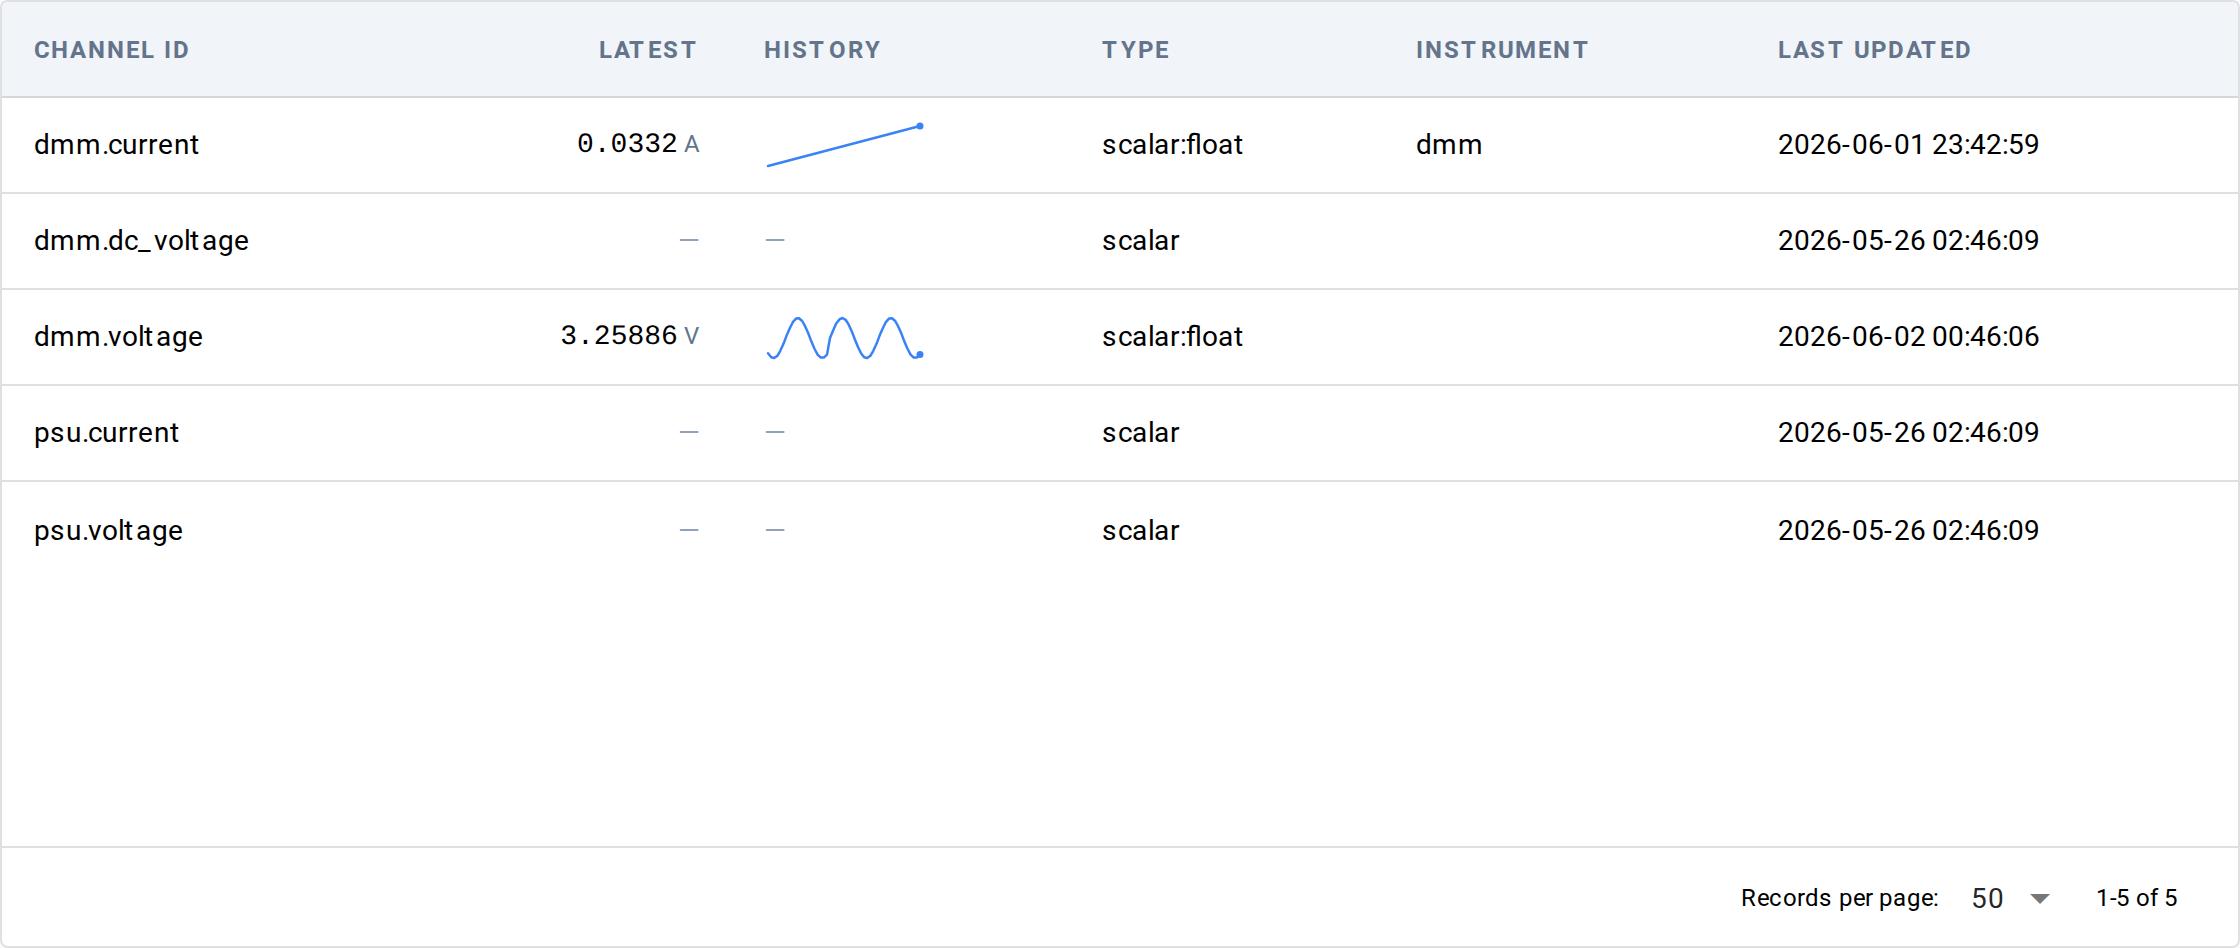
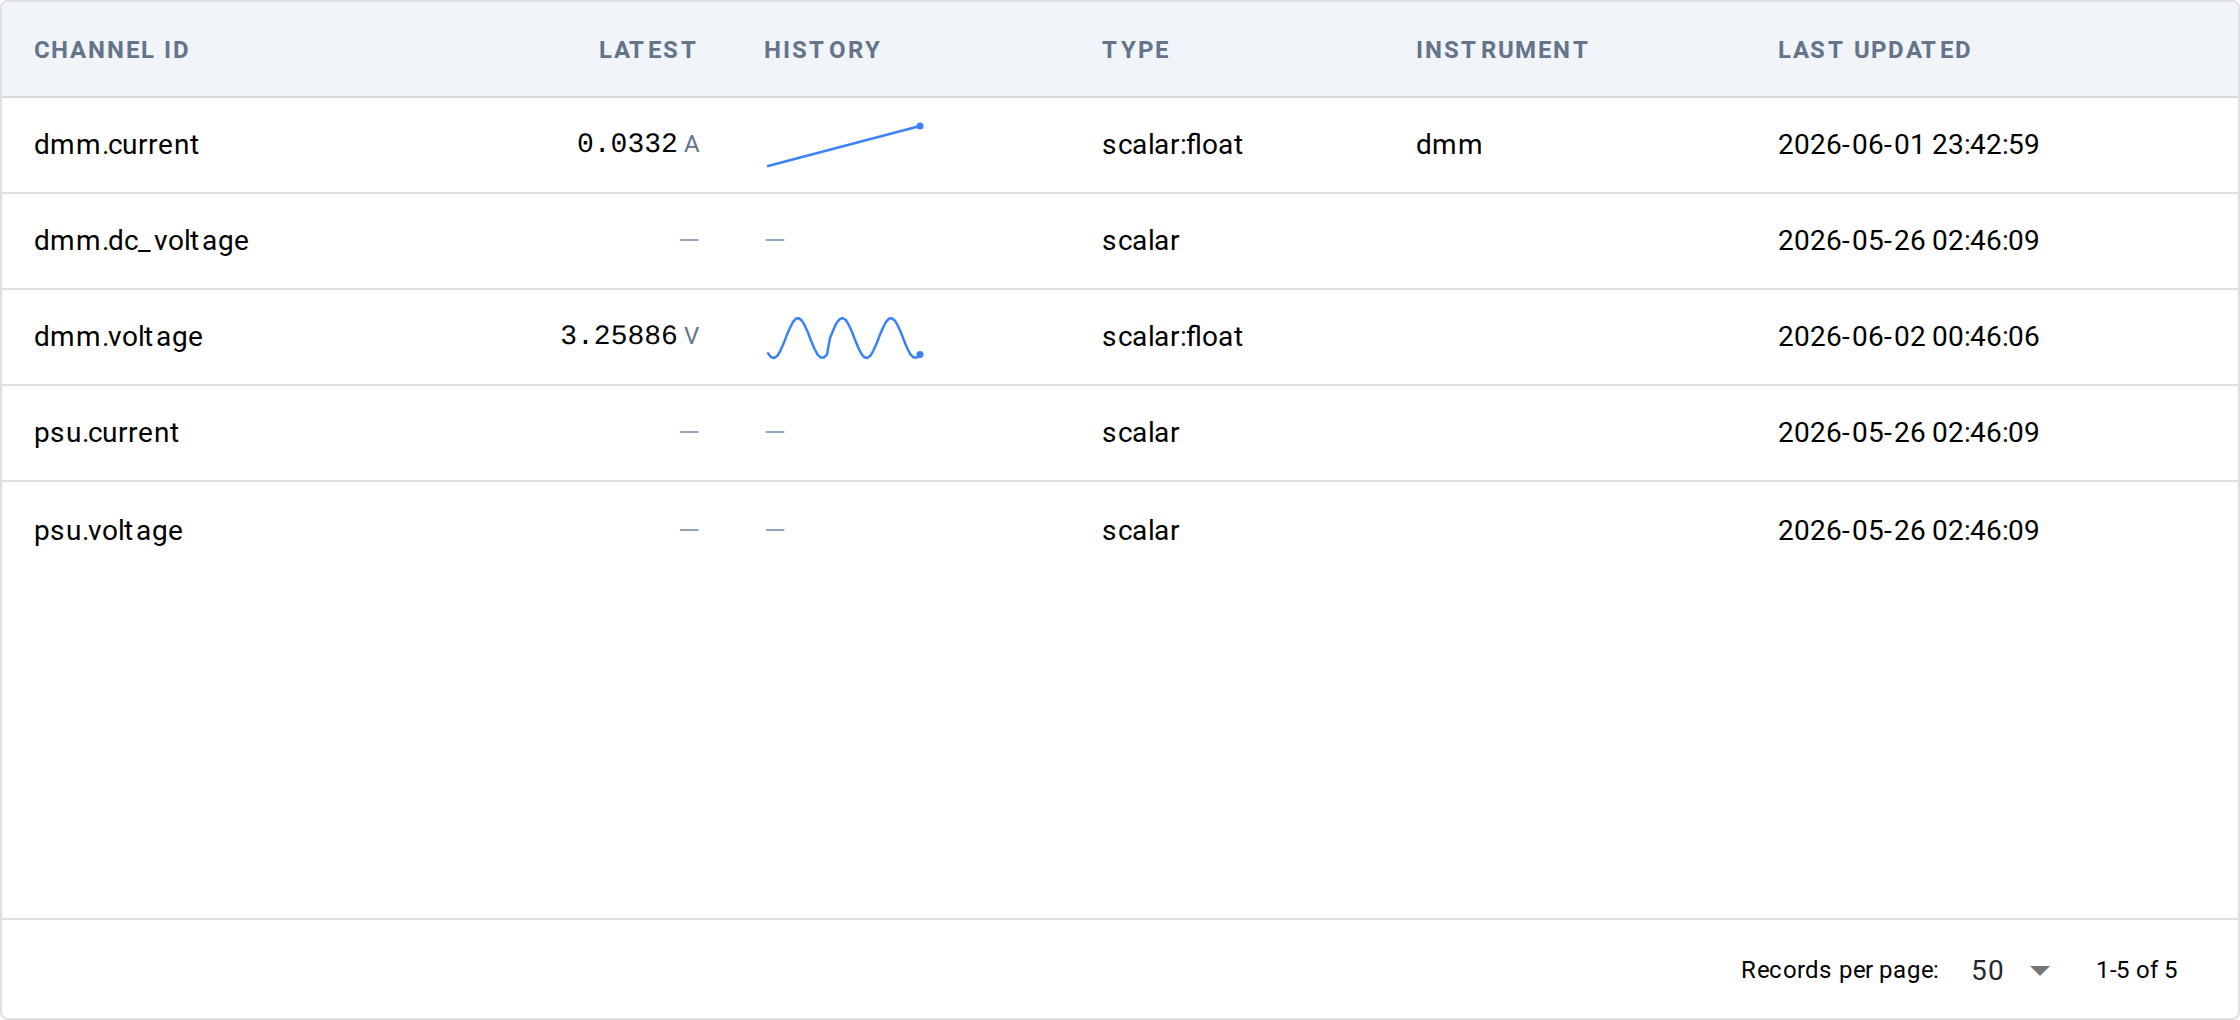
refactor(ui): cluster-3 design-review fixes (UX modifications)
First pass of v0.2.0 cluster-3 design review. Findings from the
audit of PRs #49 (/channels filter row), #50 (/launch
?test_profile= handling), and #53 (session scoping URL-only —
operator axes replace UUID filters). 5 of 10 agent findings
verified; others were false positives.

Applied:
* /launch station dropdown no longer shows ``(station_id)``
  parenthetical. Friendly name only; station_id stays as the
  hidden form value.
* /channels empty-state uses page-level ``had_data`` flag set
  True on first non-empty refresh and never reset, so a refresh
  racing a filter change can't flash "No channels recorded yet".
* /launch URL state mirroring on product / station / test_profile
  / mock dropdowns via push_url_state — matches the
  bookmarkability rule across the rest of the site.
* /channels descriptive label under page_header removed for
  consistency with /results, /events, /duts.
* Shared ``render_no_data_card`` helper added to components.py.
  Hand-rolled empty-state cards across /channels, /events,
  /files, /duts had drifted; the new helper unifies them.
  Default = slate-500 italic; ``emphasis="warning"`` = amber for
  missing-directory / lost-data states.

Verified false positives (skipped): get_runs_filter_options keys
are correct (verified at runs_query.py:341); discover_stations
returns hostname (verified at StationConfig.hostname);
session-picker absence is intentional per PR #53;
Annotated[list[str], Query()] isn't reliable in NiceGUI;
[…]

diff --git a/src/litmus/ui/shared/components.py b/src/litmus/ui/shared/components.py
@@ -244,6 +244,55 @@ def info_field(label: str, value: str) -> None:
         ui.html(value or "", sanitize=False).classes("font-semibold")
 
 
+def render_no_data_card(
+    container: Any,
+    *,
+    title: str,
+    reason: str = "",
+    icon: str | None = None,
+    emphasis: str = "default",
+) -> None:
+    """Render a standardized empty-state card.
+
+    Every list page that may have zero rows uses this so the empty
+    state reads the same everywhere: a title (italic, slate by
+    default; amber when ``emphasis="warning"``), an optional small
+    icon, and an optional one- or two-sentence ``reason`` line in
+    smaller muted text below.
+
+    Replaces the per-page hand-rolled empty-state cards (each had
+    slightly different padding, font weights, or label classes) so
+    operators see one visual idiom across /channels, /events, /files,
+    /duts, /results.
+
+    Args:
+        container: The NiceGUI container (column / card / row) the
+            card renders into. The caller is responsible for entering
+            ``with`` the container if needed; this function uses it
+            via ``with container:``.
+        title: One-line title. Italic and slate-500 by default,
+            amber-700 when ``emphasis="warning"`` (used for missing-
+            directory / lost-data states distinct from "empty").
+        reason: Optional supporting copy explaining the cause and a
+            concrete next step. Rendered as text-xs slate-400 below
+            the title. Empty string skips the line.
+        icon: Optional Quasar icon name (e.g. ``"memory"``,
+            ``"folder"``). Rendered above the title in slate-300.
+        emphasis: ``"default"`` (slate) or ``"warning"`` (amber).
+            Warning emphasis distinguishes "data may have been lost"
+            from "nothing has been recorded yet".
+    """
+    title_classes = (
+        "text-amber-700 italic font-medium" if emphasis == "warning" else ("text-slate-500 italic")
+    )
+    with container, ui.card().classes("w-full p-6 text-center"):
+        if icon:
+            ui.icon(icon).classes("text-4xl text-slate-300")
+        ui.label(title).classes(title_classes + (" mt-2" if icon else ""))
+        if reason:
+            ui.label(reason).classes("text-sm text-slate-400")
+
+
 def page_header(
     title: str,
     *,

diff --git a/src/litmus/ui/pages/channels/list.py b/src/litmus/ui/pages/channels/list.py
@@ -14,6 +14,7 @@ from litmus.ui.shared.components import (
     page_header,
     page_layout,
     push_url_state,
+    render_no_data_card,
     session_filter_banner,
     subscribe_with_refresh,
 )
@@ -63,11 +64,6 @@ def channels_page(
 
     with page_layout():
         page_header("Channels")
-        ui.label(
-            "Streaming numeric / array signals captured during test runs — "
-            "scope traces, PSU readback, sensor logs. Sparklines show the "
-            "last 50 samples; values update live."
-        ).classes("text-sm text-slate-500")
 
         # Session scoping is URL-only — no widget. Set by deep-links
         # from /results/{run_id} → /channels?session_id=...; banner
@@ -130,7 +126,15 @@ def channels_page(
         # also remember the last-rendered HTML per cell and skip
         # ``table.update()`` entirely when nothing changed — that's
         # what was making the table flash every tick.
-        state: dict[str, Any] = {"table": None, "fingerprint": ""}
+        # ``had_data`` remembers whether the page has EVER seen rows
+        # since this view was opened. The per-tick ``all_rows`` snapshot
+        # is racy when a refresh fires concurrently with a filter change;
+        # using ``has_data=bool(all_rows)`` alone would flash "No
+        # channels recorded yet" mid-toggle. ``had_data`` is set True on
+        # the first non-empty refresh and never reset for the page's
+        # lifetime, so the "filtered out" copy persists once any data
+        # has been seen.
+        state: dict[str, Any] = {"table": None, "fingerprint": "", "had_data": False}
 
         def refresh() -> None:
             try:
@@ -176,6 +180,8 @@ def channels_page(
                 _row_for_channel(cid, descriptor) for cid, descriptor in sorted(channels.items())
             ]
             state["total"] = len(channels)
+            if channels:
+                state["had_data"] = True
             _render_filtered()
 
         def _render_filtered() -> None:
@@ -214,7 +220,7 @@ def channels_page(
                     state["table"].rows.clear()
                     state["table"].update()
                     state["fingerprint"] = ""
-                _show_empty_state(empty_state, has_data=bool(all_rows))
+                _show_empty_state(empty_state, has_data=state["had_data"])
                 return
 
             empty_state.clear()
@@ -408,19 +414,23 @@ def _build_table(rows: list[dict[str, Any]], *, session_id: str = "") -> ui.tabl
 def _show_empty_state(slot: ui.column, *, has_data: bool = False) -> None:
     """Render the empty-state card. Distinguishes "no data" from "filtered out"."""
     slot.clear()
-    with slot, ui.card().classes("w-full"), ui.card_section():
-        if has_data:
-            ui.label("No channels match the current filters.").classes("text-slate-500 italic")
-            ui.label("Clear the filters above to see all channels.").classes(
-                "text-xs text-slate-400"
-            )
-            return
-        ui.label("No channels recorded yet.").classes("text-slate-500 italic")
-        ui.label(
+    if has_data:
+        render_no_data_card(
+            slot,
+            title="No channels match the current filters.",
+            reason="Clear the filters above to see all channels.",
+            icon="signal_cellular_off",
+        )
+        return
+    render_no_data_card(
+        slot,
+        title="No channels recorded yet.",
+        reason=(
             "Channels appear once a test writes to ChannelStore "
-            "(e.g. ``context.observe('scope', ndarray)`` or "
-            "instrument observers)."
-        ).classes("text-xs text-slate-400")
+            "(e.g. ``context.observe('scope', ndarray)`` or instrument observers)."
+        ),
+        icon="signal_cellular_off",
+    )
 
 
 def _row_for_channel(channel_id: str, descriptor: dict[str, Any]) -> dict[str, Any]:

diff --git a/src/litmus/ui/pages/launch.py b/src/litmus/ui/pages/launch.py
@@ -6,6 +6,7 @@ from nicegui import ui
 
 from litmus.api.models import LaunchRequest
 from litmus.api.runner import get_runner
+from litmus.ui.shared.components import push_url_state
 from litmus.ui.shared.layout import create_layout
 from litmus.ui.shared.services import (
     discover_products,
@@ -58,16 +59,20 @@ def launch_page(product: str = "", station: str = "", test_profile: str = "", mo
         """Update station dropdown based on selected product."""
         nonlocal station_options
         compatible: list | None = None
+        # Display label rule: friendly name only (operator-facing). The
+        # internal station_id stays as the form value so the backend
+        # can identify the target station; it is NOT shown in the
+        # dropdown text per the "no station_id in operator UI" rule.
         if form["product_id"]:
             compatible = get_compatible_stations_for_product(form["product_id"])
             if compatible:
-                station_options = {s["id"]: f"{s['name']} ({s['id']})" for s in compatible}
+                station_options = {s["id"]: s["name"] or s["id"] for s in compatible}
             else:
                 # No compatible stations - show all with warning
-                station_options = {s.id: f"{s.name or s.id} ({s.id})" for s in all_stations}
+                station_options = {s.id: s.name or s.id for s in all_stations}
         else:
             # No product selected - show all stations
-            station_options = {s.id: f"{s.name or s.id} ({s.id})" for s in all_stations}
+            station_options = {s.id: s.name or s.id for s in all_stations}
 
         if station_select:
             station_select.options = station_options
@@ -88,6 +93,25 @@ def launch_page(product: str = "", station: str = "", test_profile: str = "", mo
 
     # Initialize station options
     update_station_options()
+
+    def _mirror_to_url() -> None:
+        """Mirror the current form's URL-shareable fields back to the URL.
+
+        Lets an operator open `/launch?test_profile=smoke`, change the
+        dropdown, and share the resulting URL — same bookmarkability
+        rule the filter pages follow. Form-only fields (DUT serial,
+        operator name) are intentionally NOT mirrored: they belong to
+        the run instance, not the launch configuration.
+        """
+        push_url_state(
+            "/launch",
+            {
+                "product": form["product_id"],
+                "station": form["station_id"],
+                "test_profile": form["test_profile"],
+                "mock": "1" if form["mock"] else "",
+            },
+        )
 
     async def submit_launch():
         if not form["dut_serial"] or not form["station_id"]:
@@ -131,7 +155,7 @@ def launch_page(product: str = "", station: str = "", test_profile: str = "", mo
                     ui.select(
                         options={p["id"]: p["name"] for p in products},
                     ).bind_value(form, "product_id").on_value_change(
-                        lambda _: update_station_options()
+                        lambda _: (update_station_options(), _mirror_to_url())
                     ).classes("w-full").props("outlined dense clearable")
 
                 # 2. DUT Serial
@@ -157,6 +181,7 @@ def launch_page(product: str = "", station: str = "", test_profile: str = "", mo
                             options=station_options,
                         )
                         .bind_value(form, "station_id")
+                        .on_value_change(lambda _: _mirror_to_url())
                         .classes("w-full")
                         .props("outlined dense")
                     )
@@ -179,13 +204,17 @@ def launch_page(product: str = "", station: str = "", test_profile: str = "", mo
                     # of silently dropping the param.
                     if test_profile and test_profile not in profile_options:
                         profile_options[test_profile] = f"{test_profile} (unknown)"
-                    ui.select(options=profile_options).bind_value(form, "test_profile").classes(
-                        "w-full"
-                    ).props("outlined dense clearable")
+                    ui.select(options=profile_options).bind_value(
+                        form, "test_profile"
+                    ).on_value_change(lambda _: _mirror_to_url()).classes("w-full").props(
+                        "outlined dense clearable"
+                    )
 
                 # 6. Simulate checkbox
                 with ui.row().classes("items-center gap-2 mt-2"):
-                    ui.checkbox("Mock Hardware").bind_value(form, "mock")
+                    ui.checkbox("Mock Hardware").bind_value(form, "mock").on_value_change(
+                        lambda _: _mirror_to_url()
+                    )
                     ui.label("Run without real instruments").classes("text-xs text-slate-500")
 
                 ui.separator().classes("my-2")

diff --git a/src/litmus/ui/pages/files/list.py b/src/litmus/ui/pages/files/list.py
@@ -14,6 +14,7 @@ from litmus.ui.shared.components import (
     page_header,
     page_layout,
     push_url_state,
+    render_no_data_card,
     session_filter_banner,
 )
 from litmus.ui.shared.layout import create_layout
@@ -288,29 +289,39 @@ def _show_empty_state(slot: ui.column, *, has_data: bool, dir_exists: bool) -> N
     Different copy from "no files yet (directory present)" so an
     operator looking at a long-running project notices the difference.
     """
-    with slot, ui.card().classes("w-full"), ui.card_section():
-        if has_data:
-            ui.label("No files match the current filters.").classes("text-slate-500 italic")
-            ui.label("Clear the filters above to see all artifacts.").classes(
-                "text-xs text-slate-400"
-            )
-            return
-        if not dir_exists:
-            ui.label("FileStore directory not found.").classes("text-amber-700 italic font-medium")
-            ui.label(
+    if has_data:
+        render_no_data_card(
+            slot,
+            title="No files match the current filters.",
+            reason="Clear the filters above to see all artifacts.",
+            icon="folder_off",
+        )
+        return
+    if not dir_exists:
+        render_no_data_card(
+            slot,
+            title="FileStore directory not found.",
+            reason=(
                 "Either the project has never written a FileStore artifact, or the "
                 "``files/`` directory under the project's data_dir has been removed. "
                 "If this is a long-running project, check whether the data directory "
                 "moved or was wiped. The directory is created on the first "
                 "``context.observe(name, value)`` or ``files.write(...)`` call."
-            ).classes("text-xs text-slate-500")
-            return
-        ui.label("No artifact files yet.").classes("text-slate-500 italic")
-        ui.label(
+            ),
+            icon="folder_off",
+            emphasis="warning",
+        )
+        return
+    render_no_data_card(
+        slot,
+        title="No artifact files yet.",
+        reason=(
             "Files appear once a test calls ``context.observe(name, value)`` with a "
             "blob value (PIL.Image / bytes / Pydantic model) or opens a "
             "``files.stream(name, format=...)`` sink."
-        ).classes("text-xs text-slate-400")
+        ),
+        icon="folder",
+    )
 
 
 @app.get("/files-static/{session_id}/{filename}")

diff --git a/src/litmus/ui/pages/duts/list.py b/src/litmus/ui/pages/duts/list.py
@@ -8,7 +8,12 @@ by definition.
 
 from nicegui import ui
 
-from litmus.ui.shared.components import data_table, format_datetime, page_layout
+from litmus.ui.shared.components import (
+    data_table,
+    format_datetime,
+    page_layout,
+    render_no_data_card,
+)
 from litmus.ui.shared.layout import create_layout
 from litmus.ui.shared.services import duts_from_runs
 
@@ -32,14 +37,16 @@ def duts_page():
                 ui.badge(f"{len(rows_data)} observed").props("outline")
 
         if not rows_data:
-            with ui.card().classes("w-full p-6 text-center"):
-                ui.icon("memory").classes("text-4xl text-slate-300")
-                ui.label("No DUTs observed yet.").classes("text-slate-500 mt-2")
-                ui.label(
+            render_no_data_card(
+                ui.column().classes("w-full"),
+                title="No DUTs observed yet.",
+                reason=(
                     "Run a test against a station to populate this list. "
                     "Every distinct DUT serial that appears in run history "
                     "shows up here."
-                ).classes("text-sm text-slate-400")
+                ),
+                icon="memory",
+            )
             return
 
         columns = [

diff --git a/src/litmus/ui/pages/events/list.py b/src/litmus/ui/pages/events/list.py
@@ -15,6 +15,7 @@ from litmus.ui.shared.components import (
     page_header,
     page_layout,
     push_url_state,
+    render_no_data_card,
     session_filter_banner,
 )
 from litmus.ui.shared.layout import create_layout
@@ -183,8 +184,11 @@ def _render_table(slot: ui.column, payload: dict[str, Any]) -> None:
         ui.label(f"{count} event(s)").classes("text-sm text-slate-600 px-2 py-1")
 
         if not events:
-            ui.label("No events match the current filters.").classes(
-                "text-slate-500 italic px-2 py-2"
+            render_no_data_card(
+                ui.column().classes("w-full"),
+                title="No events match the current filters.",
+                reason="Clear the filters above (or widen the time window) to see more events.",
+                icon="notifications_off",
             )
             return
 